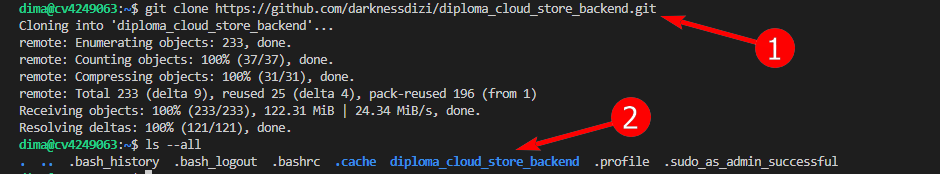
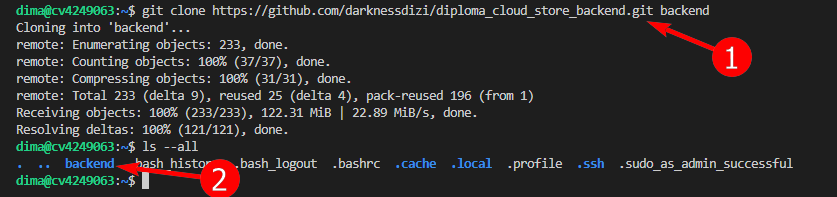
обновление readme, изменение в .env

Changed region(s): [[0.0, 0.0, 0.963, 1.0]]

diff --git a/README.md b/README.md
@@ -173,9 +173,9 @@ git clone https://github.com/darknessdizi/diploma_cloud_store_backend.git backen
 
 ![Копирование репозитория](/pic/clone.png)
 
-После копирования проекта с помощью `git clone` (пункт 1 на рисунке) на сервере появится папка с проектом (пункт 2 на рисунке). Список папок можно получить командой `ls`, `ls -A` или `ls --all`
+После копирования проекта с помощью `git clone` (пункт 1 на рисунке) на сервере появится папка `backend` с проектом (пункт 2 на рисунке). Список папок можно получить командой `ls`, `ls -A` или `ls --all`
 
-14. Перейти в появившуюся папку `diploma_cloud_store_backend`:
+14. Перейти в появившуюся папку `backend`:
 ```bash
 cd backend/
 ```
